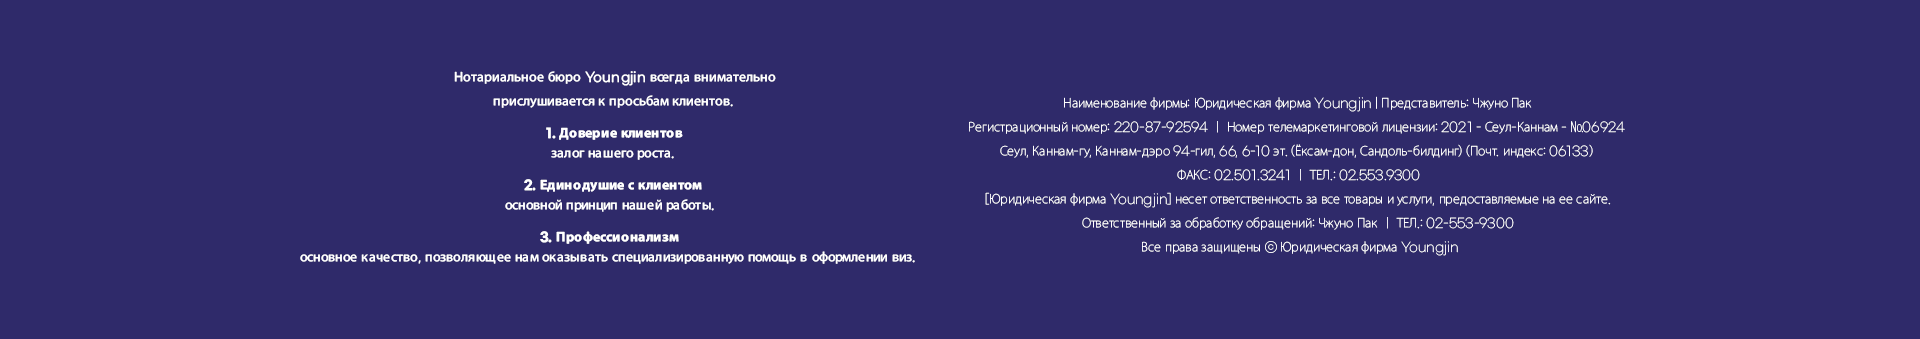
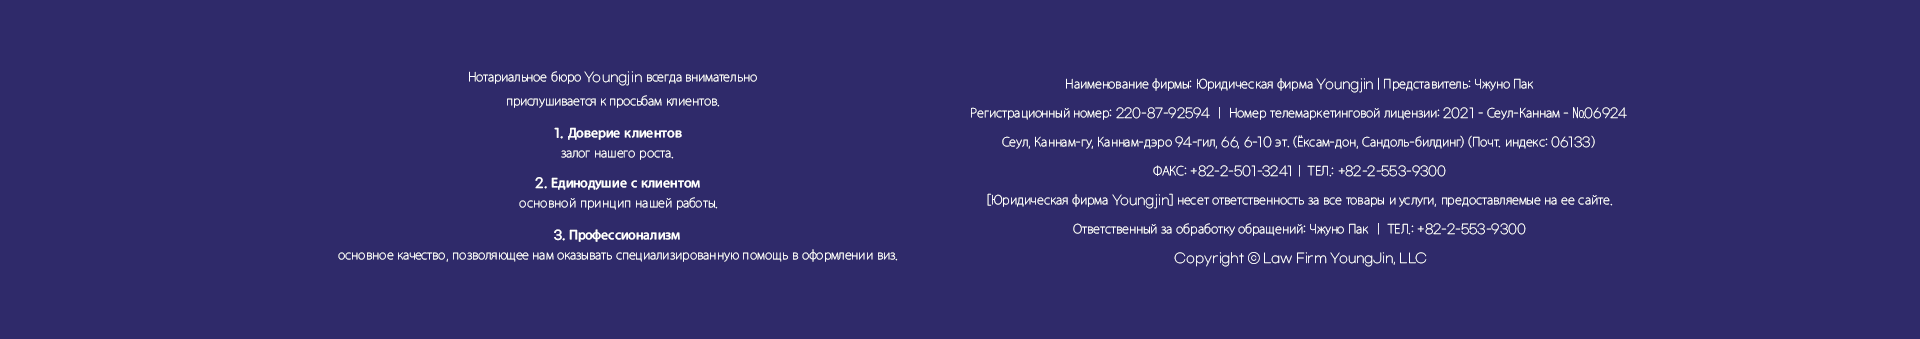
footer copyright, tel

diff --git a/pages/index_ru.html b/pages/index_ru.html
@@ -365,10 +365,10 @@
           <p>Регистрационный номер: 220-87-92594 ㅣ Номер телемаркетинговой лицензии: 2021 – Сеул-Каннам - №06924
           </p>
           <p>Сеул, Каннам-гу, Каннам-дэро 94-гил, 66, 6-10 эт. (Ёксам-дон, Сандоль-билдинг) (Почт. индекс: 06133)</p>
-          <p>ФАКС: 02.501.3241 ㅣ ТЕЛ.: 02.553.9300</p>
+          <p>ФАКС: +82-2-501-3241 ㅣ ТЕЛ.: +82-2-553-9300</p>
           <p>[Юридическая фирма Youngjin] несет ответственность за все товары и услуги, предоставляемые на ее сайте.</p>
-          <p>Ответственный за обработку обращений: Чжуно Пак ㅣ ТЕЛ.: 02-553-9300</p>
-          <p>Все права защищены ⓒ Юридическая фирма Youngjin</p>
+          <p>Ответственный за обработку обращений: Чжуно Пак ㅣ ТЕЛ.: +82-2-553-9300</p>
+          <p>Copyright ⓒ Law Firm YoungJin, LLC</p>
         </div>
       </div>
     </footer>

diff --git a/pages/index_vn.html b/pages/index_vn.html
@@ -373,13 +373,13 @@
           </p>
           <p>(Mã Bưu Chính)06133, Tầng 6 ~ 10, 66 Gangnam-daero 94-gil, Gangnam-gu, Seoul(Yeoksam-dong, Tòa nhà Sandol)
           </p>
-          <p>Fax : 02.501.3241 ㅣ Số liên hệ : 02.553.9300</p>
+          <p>Fax : +82-2-501-3241 ㅣ Số liên hệ : +82-2-553-9300</p>
           <p>Tất cả các sản phẩm được phục vụ trên trang web do [Công ty luật YoungJin (.,LLC) điều hành đều chịu trách
             nhiệm từ [Công ty luật YoungJin (.,LLC)]
           </p>
-          <p>Người phụ trách khiếu nại dân sự : Park Joun Oh ㅣ Số liên hệ : 02-553-9300
+          <p>Người phụ trách khiếu nại dân sự : Park Joun Oh ㅣ Số liên hệ : +82-2-553-9300
           </p>
-          <p>Copyright ⓒ Công ty luật YoungJin (.,LLC)
+          <p>Copyright ⓒ Law Firm YoungJin, LLC
           </p>
         </div>
       </div>

diff --git a/pages/index_us.html b/pages/index_us.html
@@ -366,10 +366,10 @@
           <p>(Postal Code) 06133 #6~10F, 66, Gangnam-daero 94-gil, Gangnam-gu, Seoul, Republic of Korea (Sandol
             Building, Yeoksam-dong)
           </p>
-          <p>팩스 : 02.501.3241 ㅣ 연락처 : 02.553.9300</p>
+          <p>Fax : +82-2-501-3241 ㅣ Tel : +82-2-553-9300</p>
           <p>Law Firm YoungJin, LLC is responsible for all products being serviced on the homepage operated by us.
           </p>
-          <p>Complaints officer : Park Joun Oh ㅣ Tel. : 02.553.9300
+          <p>Complaints officer : Park Joun Oh ㅣ Tel. : +82-2-553-9300
           </p>
           <p>Copyright ⓒ Law Firm YoungJin, LLC</p>
         </div>
